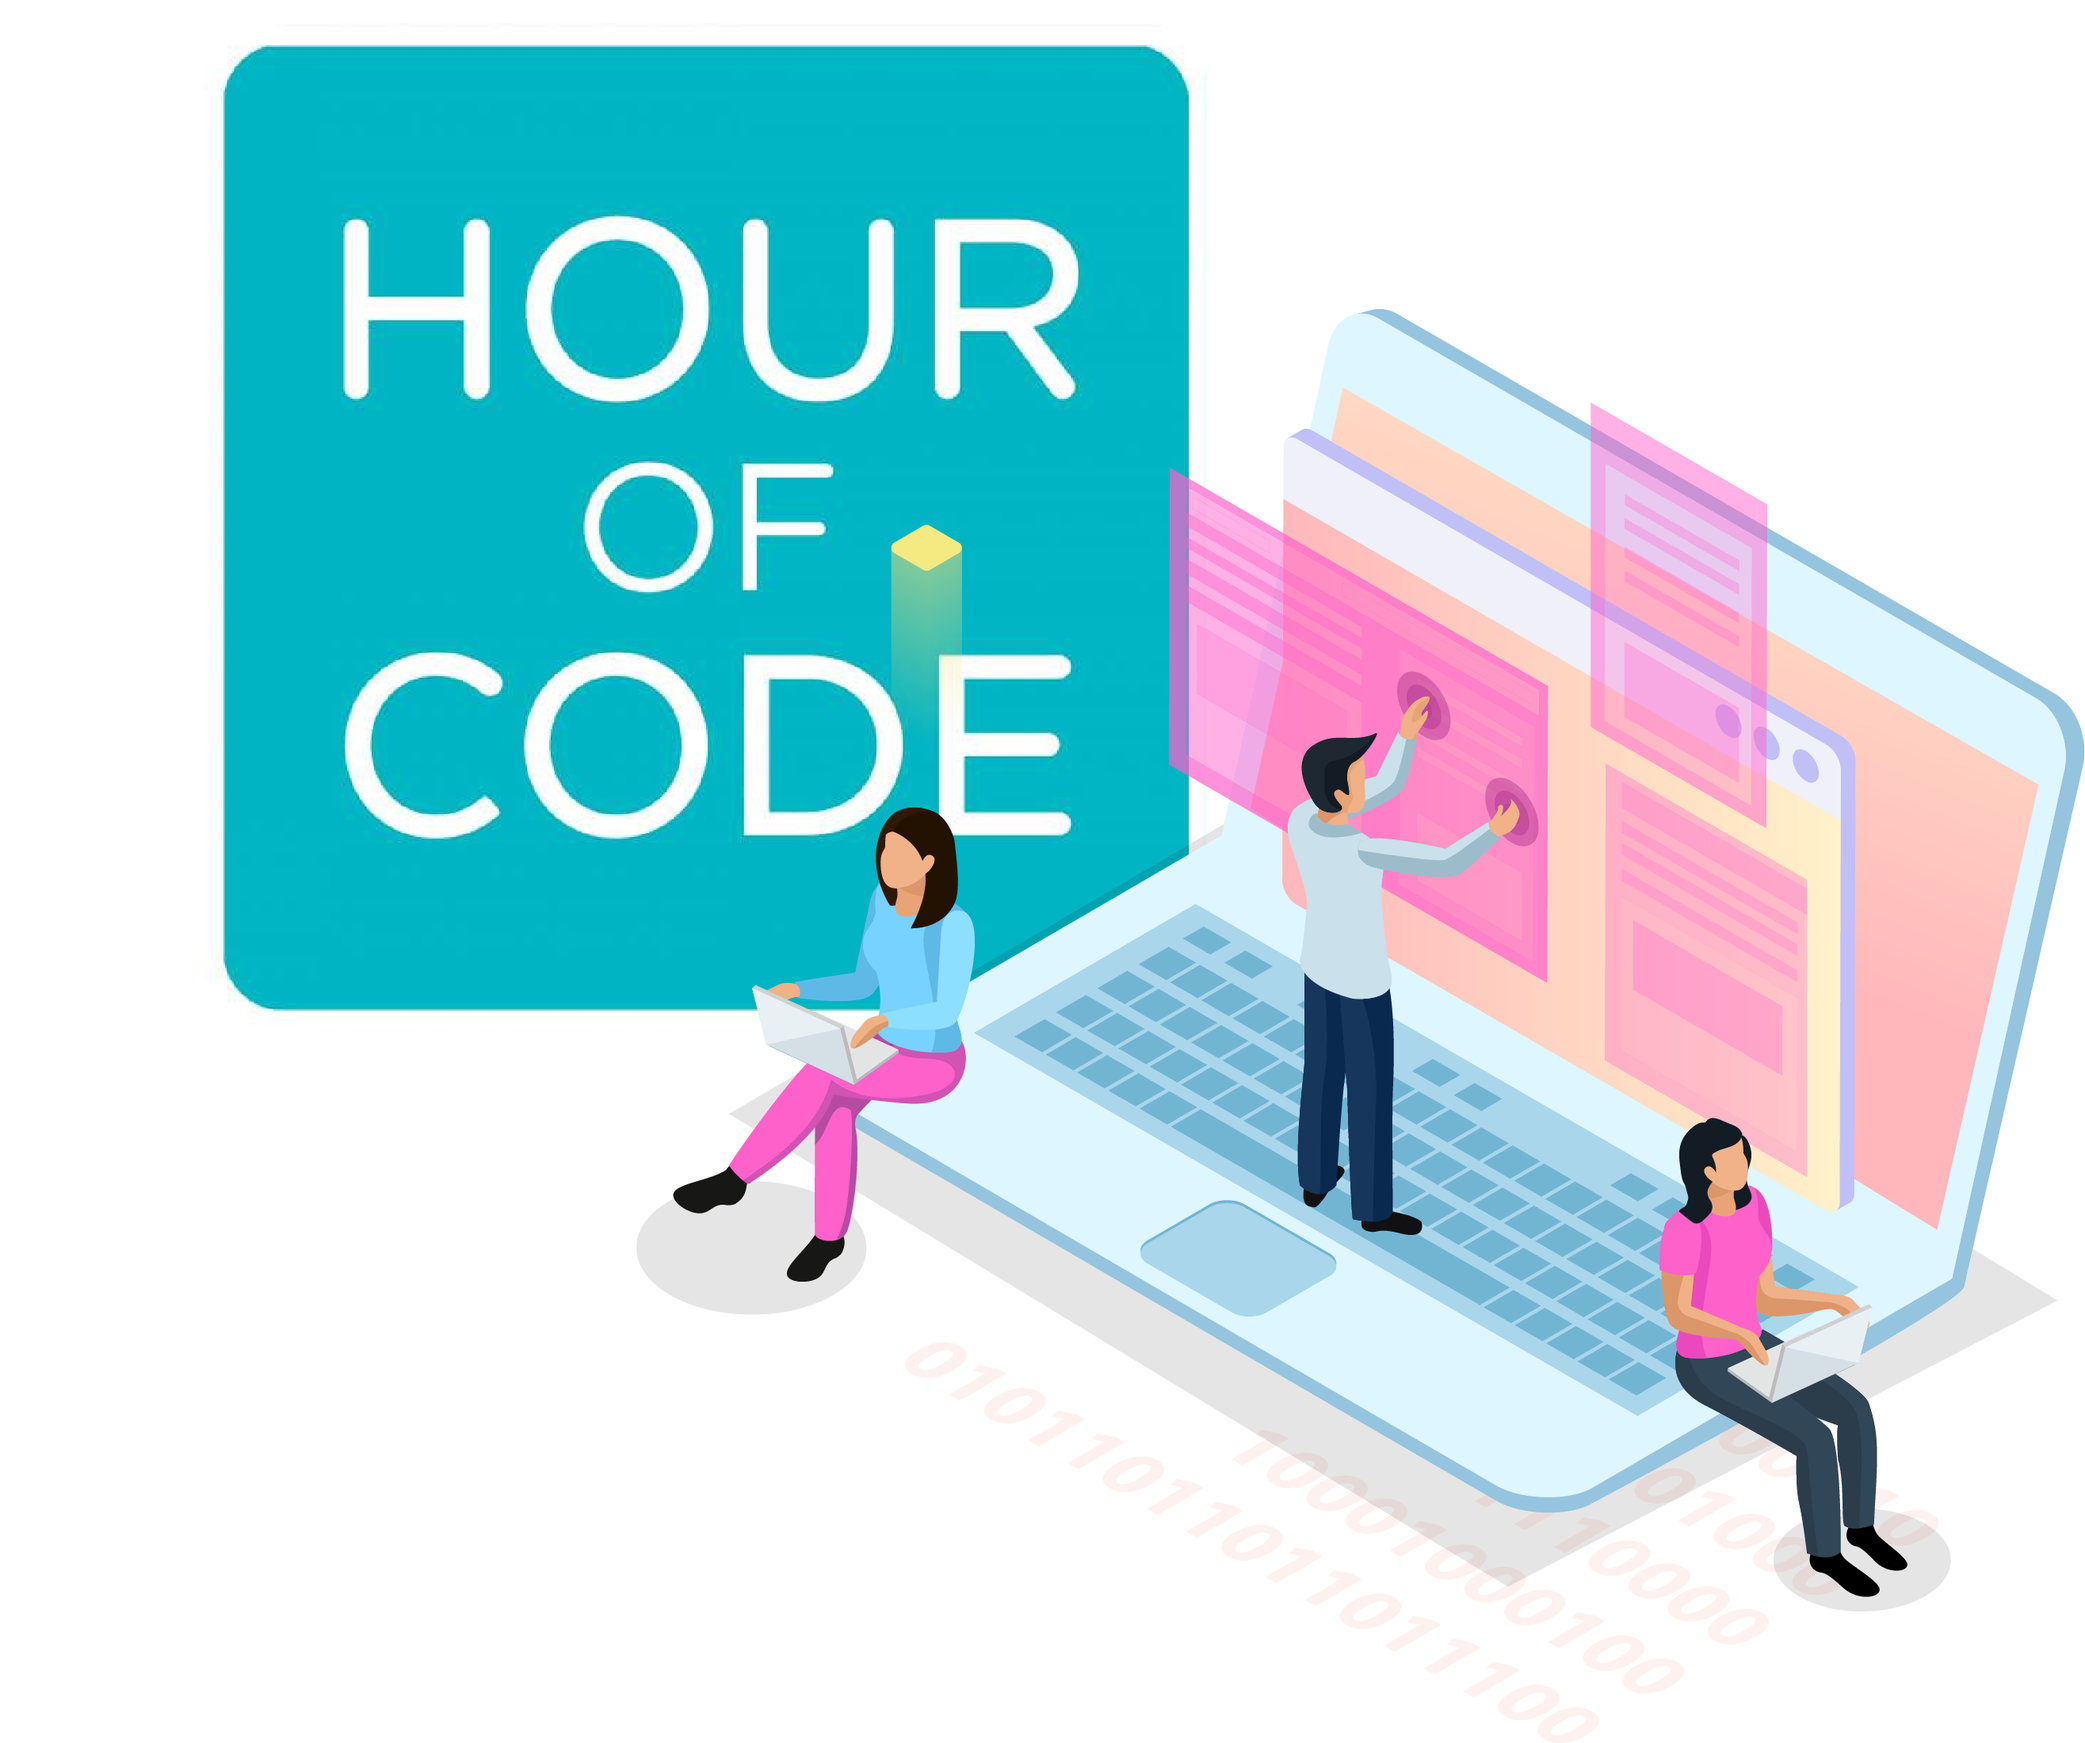
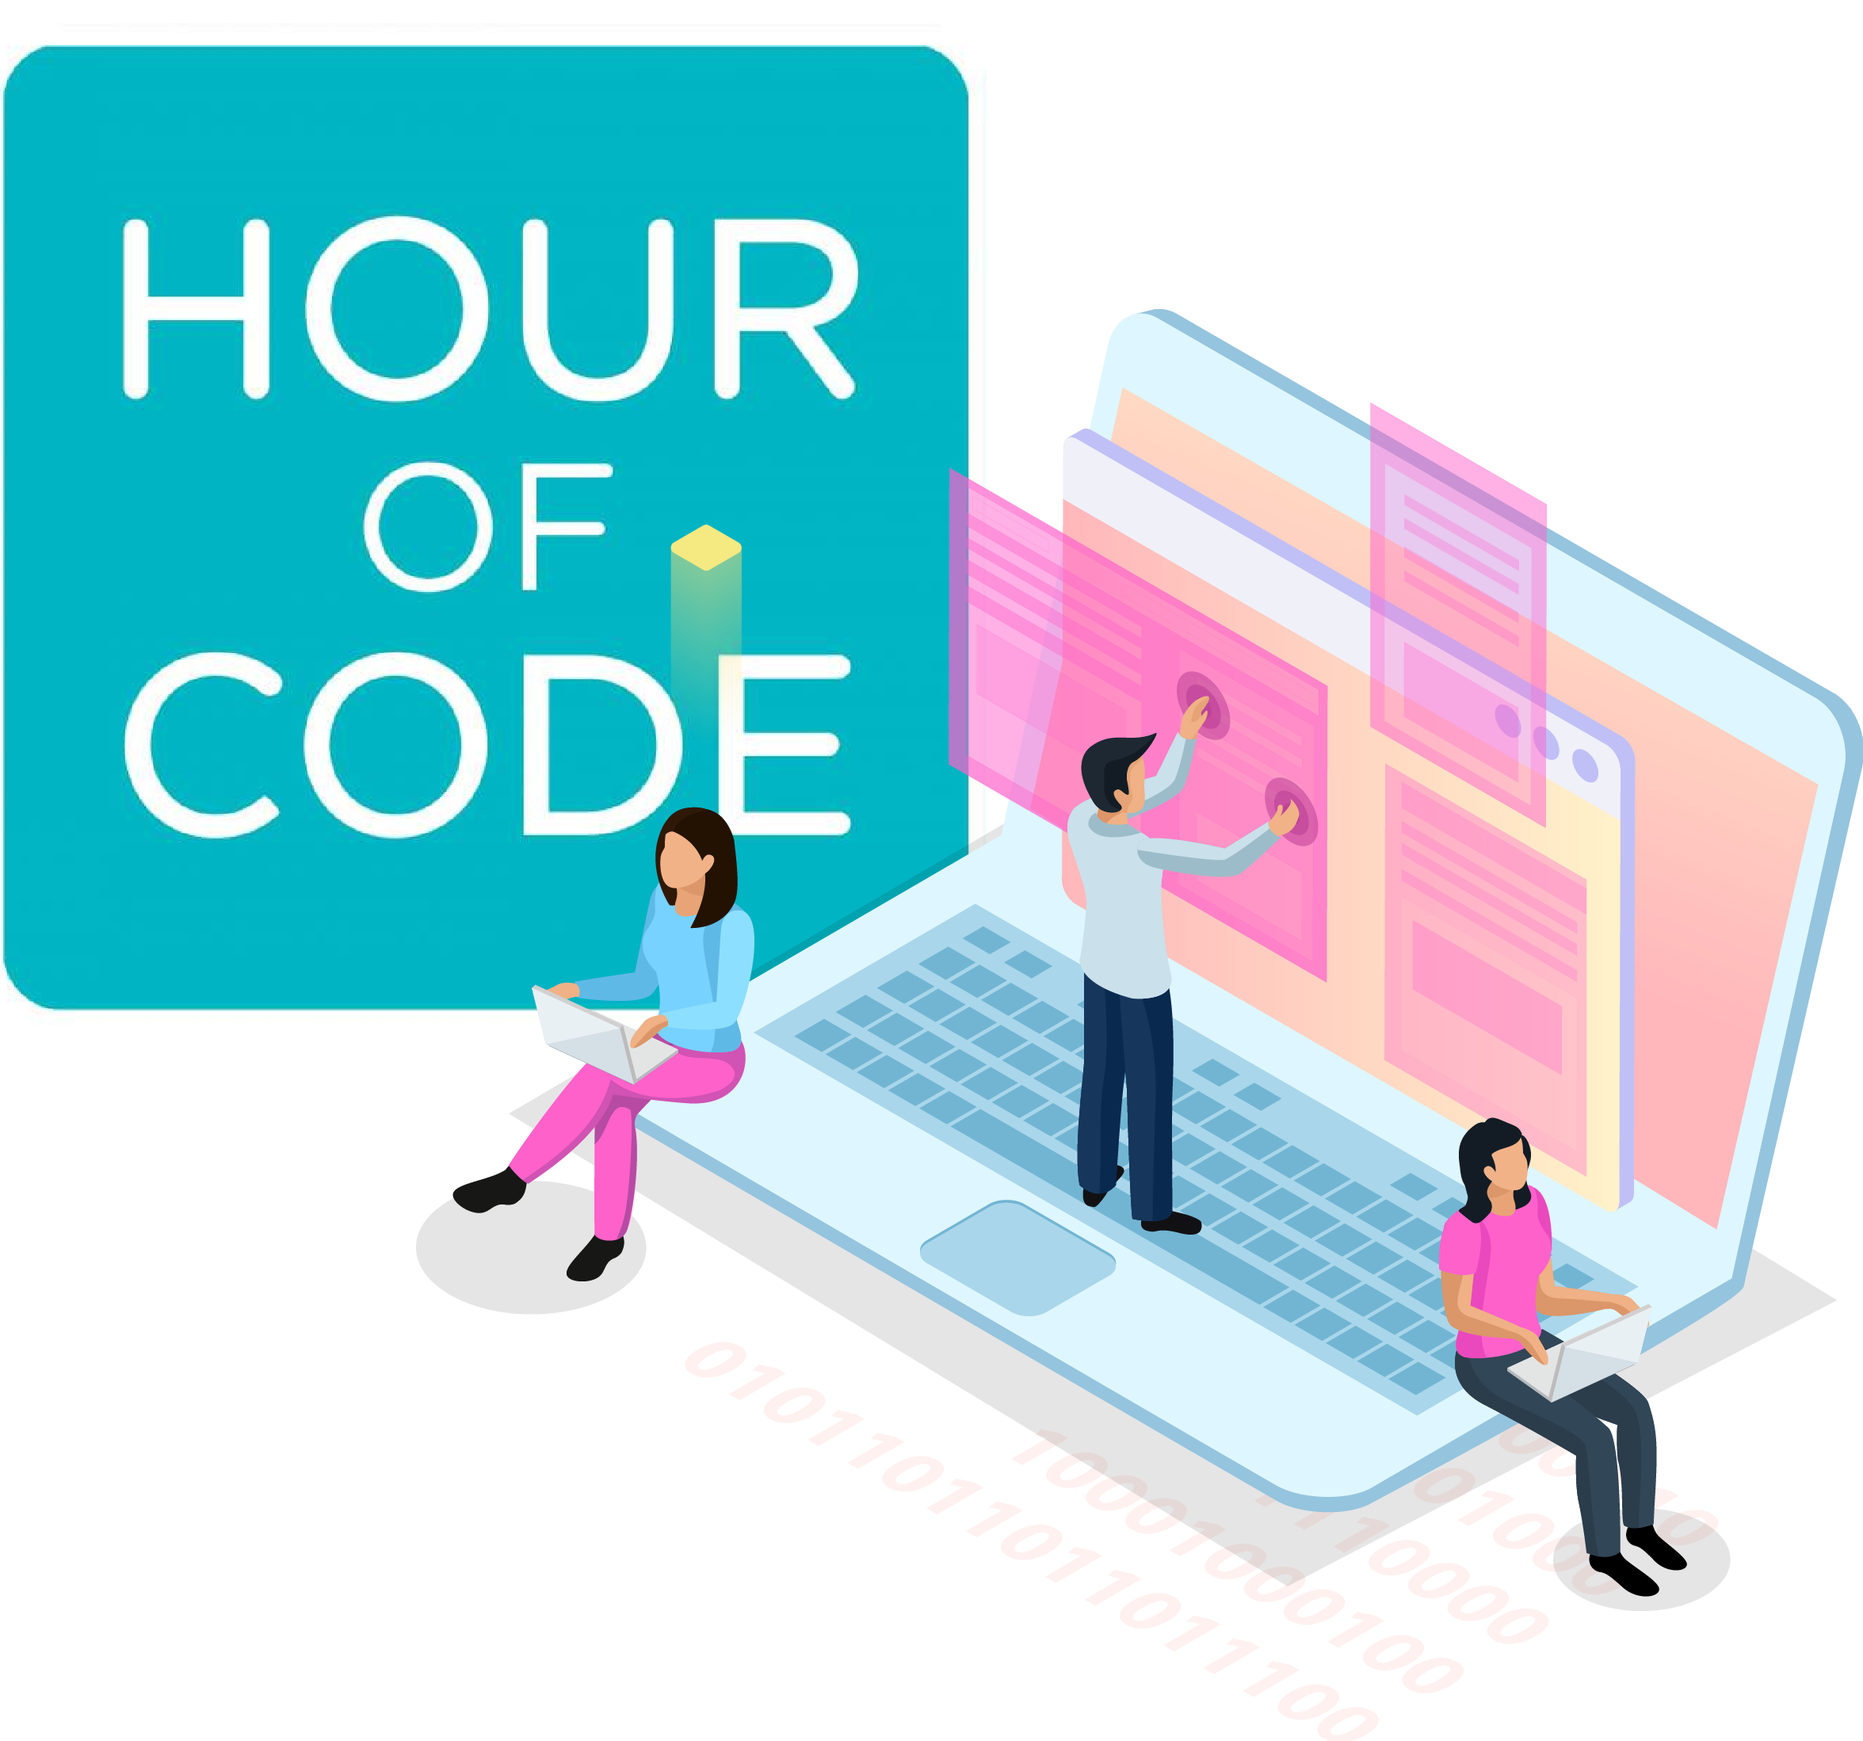
responsive hour code

diff --git a/hora.php b/hora.php
@@ -7,26 +7,28 @@
         <?php include("nav.php"); ?>
         
         <div class="center" style="background-color: black;">
-            <video width="65%"   autoplay muted>
+            <video id="video"   autoplay muted>
                 <source src="videos/videohoradelcodigo.mp4" type="video/mp4">
                     Tu navegador no soporta Videos  
             </video> 
         </div>
-        </div>
+
+      
         <div class="center " style="padding-top:45px; margin:0">
-            <img src="img/horacod-logo.png" alt="" width="500px"> 
+            <img id="img1" src="img/horacod-logo.png" alt="" width="500px"> 
         </div>
+        
         <div id="secc1" class="center font-lato">
-            <p style="padding:7% 15%">
+            <p id="p-la-hora" >
                 La Hora del Código es un movimiento global impulsado por Code.org, que llega a millones de estudiantes en más de 180 países, en el que alumnos y personas de todas las edades aprenden los principios básicos de la programación.
             </p>
         </div>
         <div id="secc2">
             <div>
-                <iframe width="720" height="412" src="https://www.youtube.com/embed/nKIu9yen5nc" frameborder="0" allow="accelerometer; autoplay; encrypted-media; gyroscope; picture-in-picture" allowfullscreen></iframe>
+                <iframe id="video2" width="720" height="412" src="https://www.youtube.com/embed/nKIu9yen5nc" frameborder="0" allow="accelerometer; autoplay; encrypted-media; gyroscope; picture-in-picture" allowfullscreen></iframe>
             </div>
             <div style="display: flex; justify-content: center; align-content: center;">
-                <img src="img/hourofcode.png" alt="" height="412">
+                <img id="img2" src="img/hourofcode.png" alt="" >
             </div>
         </div>
 
@@ -73,6 +75,14 @@
     p{  
        margin: 0;
     }
+
+    #video{
+        width: 65%;
+    }
+    #p-la-hora{
+        padding:7% 15%;
+    }
+
     #secc1{
         background-color: #33cccc;
         color: white;
@@ -133,6 +143,10 @@
         
     }
 
+    #img2{
+        height:412px;
+    }
+
     .cuadrito2:hover{
         text-align: center;
         padding: 10px 5px;
@@ -166,6 +180,55 @@
 
     #c3{
         background-color: green;
+    }
+
+
+    @media screen and (max-width: 600px) {
+
+        #p-la-hora{
+            padding:5% 10%;
+        }
+
+        #video{
+            width:100%;
+        }
+
+        #video2{
+            width: 100%;
+            height: auto;
+        }
+
+        #img1{
+            width:80%;
+        }
+
+        #secc2{
+           grid-template-columns: 1fr;     
+        }
+
+        #barra{
+            grid-template-columns: 1fr 1fr;     
+            margin: 0 8%;
+        }
+
+        .cuadrito{
+            font-size: 9pt;
+        }
+
+        #img2{
+            width: 80%;
+            height: auto;
+        }
+
+        #secc1{
+            font-size: 1.2em;
+        }
+
+        #secc3{
+            grid-template-columns: 1fr;
+            row-gap: 15px   ;
+        }
+
     }
 
 
